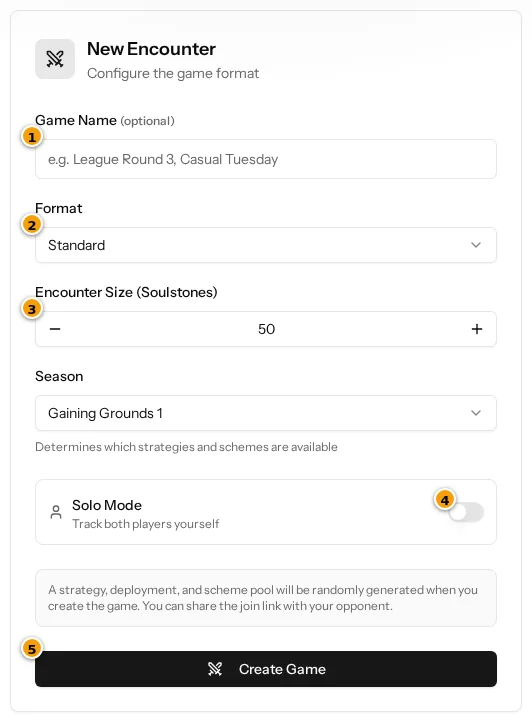
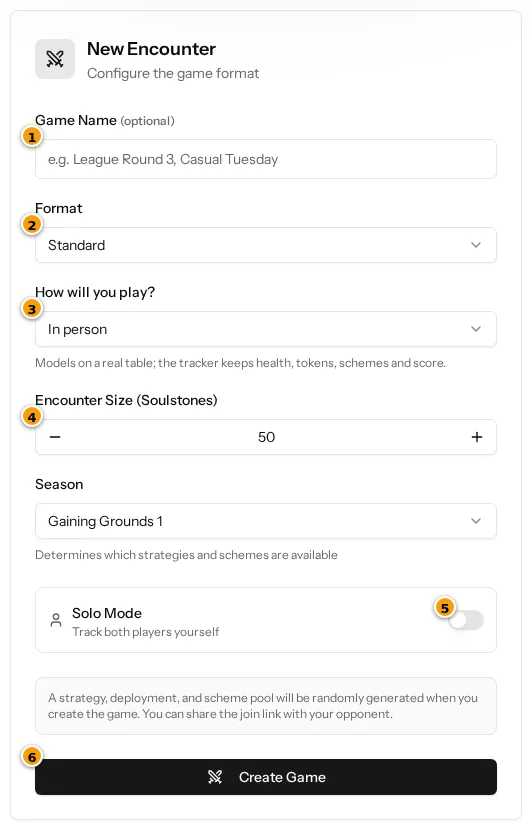
Help pictures for Create Game and deploying a game

diff --git a/resources/js/lib/help/topics/gameTracker.ts b/resources/js/lib/help/topics/gameTracker.ts
@@ -24,10 +24,11 @@ const gameTracker: HelpTopic = {
                     body: 'Press Create Game and fill in the New Encounter card: a name if you like (League Round 3, Casual Tuesday), the format, how you will play, the encounter size in soulstones, and the season. A strategy, deployment and scheme pool are generated for you when you create it.',
                     image: {
                         src: 'game-tracker/create.webp',
-                        alt: 'The New Encounter card on the Create Game page, with a game name box, a format list, the encounter size, a Solo Mode switch and the Create Game button.',
+                        alt: 'The New Encounter card on the Create Game page, with a game name box, a format list, a How will you play list, the encounter size, a Solo Mode switch and the Create Game button.',
                         callouts: [
                             'Game name (optional).',
                             'The format.',
+                            'How you will play: in person, on the tabletop app, online or other.',
                             'The encounter size, in soulstones.',
                             'The Solo Mode switch.',
                             'Create Game.',

diff --git a/resources/js/lib/help/topics/tabletop.ts b/resources/js/lib/help/topics/tabletop.ts
@@ -183,6 +183,16 @@ const tabletop: HelpTopic = {
                 {
                     title: 'Dividing the crew',
                     body: 'First the defender divides their crew into two groups. Tick the models to deploy second and press the button, or tick none and press Keep the crew together. Then the attacker chooses which group is deployed first (Deploy this group first).',
+                    image: {
+                        src: 'tabletop/deploying.webp',
+                        alt: 'The Deployment panel above the table as the defender sees it: a line saying what to do, a list of the crew with a tick box each, a button to divide the crew, and a Start without deploying button.',
+                        callouts: [
+                            'What is happening and whose move it is.',
+                            'Tick the models to deploy second.',
+                            'Divide the crew (or keep it together if none are ticked).',
+                            'Start without deploying, if both players agree.',
+                        ],
+                    },
                 },
                 {
                     title: 'Placing the groups',

diff --git a/docs/plans/game-play-medium.md b/docs/plans/game-play-medium.md
@@ -88,7 +88,7 @@ Side colours: **attacker is red, defender is blue** on the board (bases, deploym
 - **Phase 1 done** (2026-11): play mode, Create form, saved-table copy, badges, attacker red / defender blue. Commit `1d79b60c`.
 - **Phase 2 done**: `App\Support\Game\GameSetupFlow` (`statuses`, `next`, `advance`, `startingStatus`, `steps`) owns the setup order. `GameSetupController` (six transitions), `GameController::store` and `join` use it; `advance` must be called inside the transaction holding `lockForUpdate` and re-checks the status itself. `Games/Show` gets `setup_steps` and the indicator no longer guesses `step + '_select'`. Left alone on purpose: the tournament tracker factory and `CampaignGameController`, which create games already at MasterSelect, and the label/colour maps in `Games/Index`, `Hub`, `Campaigns/Show` (their wording differs; unify when Deployment adds a status). Bonanza still shows four step dots (unchanged); `GameSetupFlow::steps` is where to make it two.
 
-- **Phase 3 done** (server + board + play screen): `GameStatusEnum::Deployment`, `GameDeployment`, `GameDeployController`, `DeploymentPanel`, `GameDeploymentCard`, help text, `flows40` (9 steps, two players, axe clean, phone tap targets). Not built: server-side zone containment (client only), a real-websocket check (the harness has none: each player reloads), and the help pictures for Create and the Deployment panel (text only).
+- **Phase 3 done** (server + board + play screen): `GameStatusEnum::Deployment`, `GameDeployment`, `GameDeployController`, `DeploymentPanel`, `GameDeploymentCard`, help text, `flows40` (9 steps, two players, axe clean, phone tap targets). Not built: server-side zone containment (client only), a real-websocket check (the harness has none: each player reloads)(the help pictures for Create and the Deployment panel are made, `tabletop/deploying.webp` and the updated `game-tracker/create.webp`).
 - **Phase 4/5 not started**: choosing the deployment on the table (it is rolled at creation today; the attacker can turn the zones), the Fate-flip for attacker/defender, and pulling more out of `Games/Show.vue`.
 
 ## Phases and order
